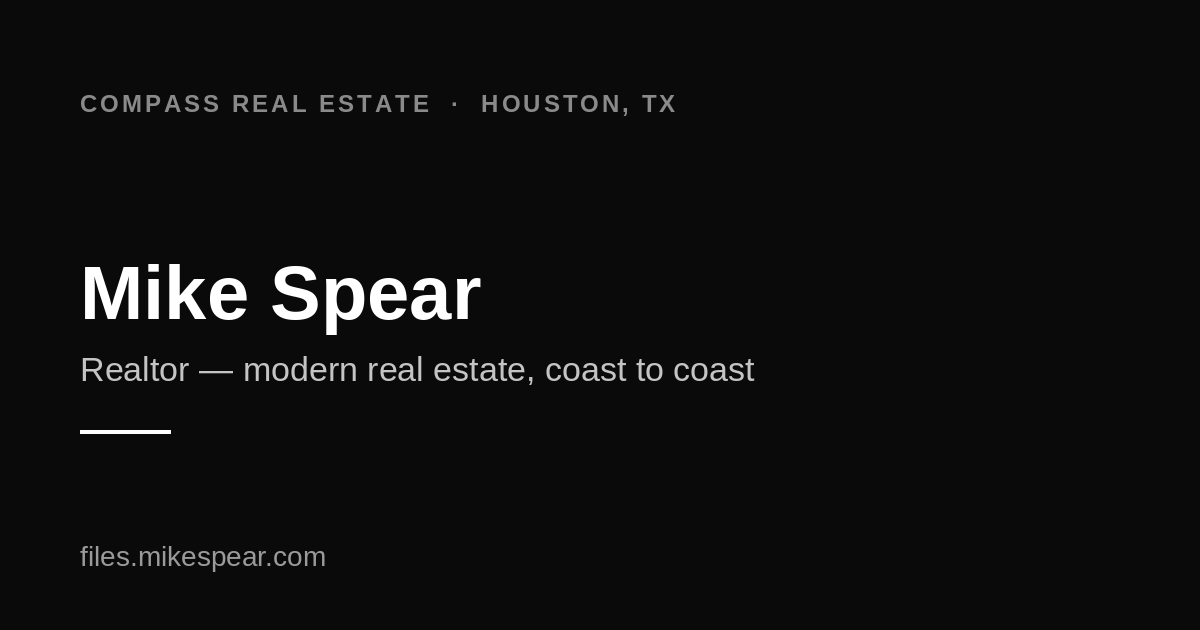
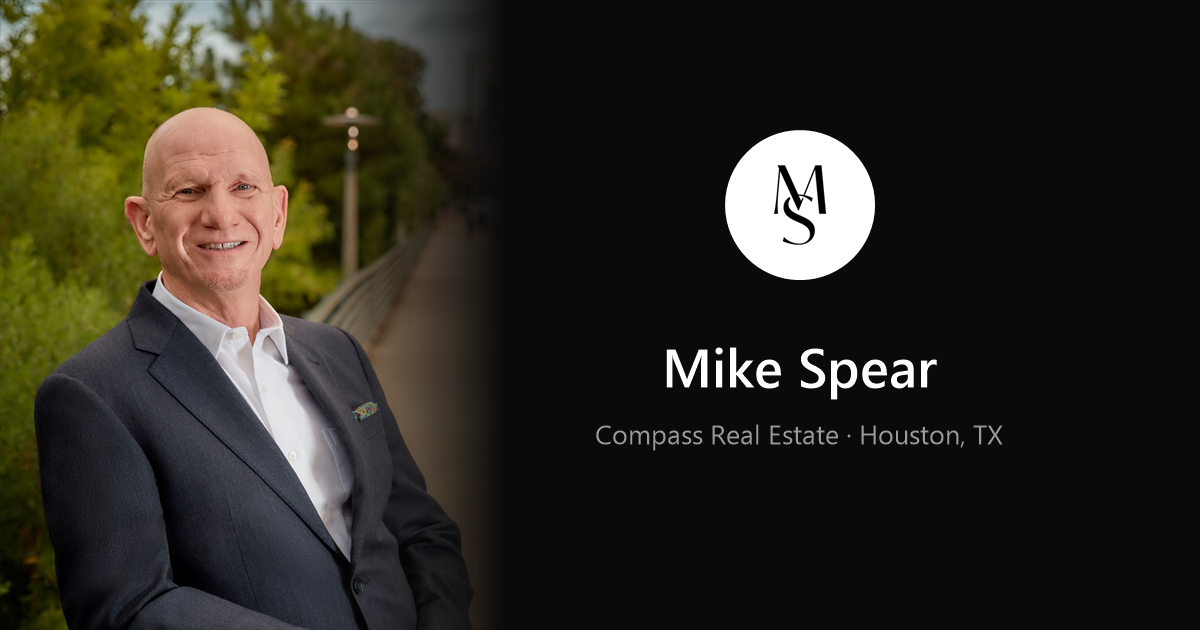
Branded link preview image with photo and monogram

diff --git a/index.html b/index.html
@@ -10,13 +10,13 @@
   <meta property="og:title" content="Mike Spear">
   <meta property="og:description" content="Realtor - modern real estate, coast to coast.">
   <meta property="og:url" content="https://links.mikespear.com/">
-  <meta property="og:image" content="https://links.mikespear.com/og-image.png">
+  <meta property="og:image" content="https://links.mikespear.com/og-image.jpg">
   <meta property="og:image:width" content="1200">
   <meta property="og:image:height" content="630">
   <meta name="twitter:card" content="summary_large_image">
   <meta name="twitter:title" content="Mike Spear">
   <meta name="twitter:description" content="Realtor - modern real estate, coast to coast.">
-  <meta name="twitter:image" content="https://links.mikespear.com/og-image.png">
+  <meta name="twitter:image" content="https://links.mikespear.com/og-image.jpg">
 
   <link rel="icon" type="image/png" href="/favicon.png">
   <link rel="apple-touch-icon" href="/favicon.png">
